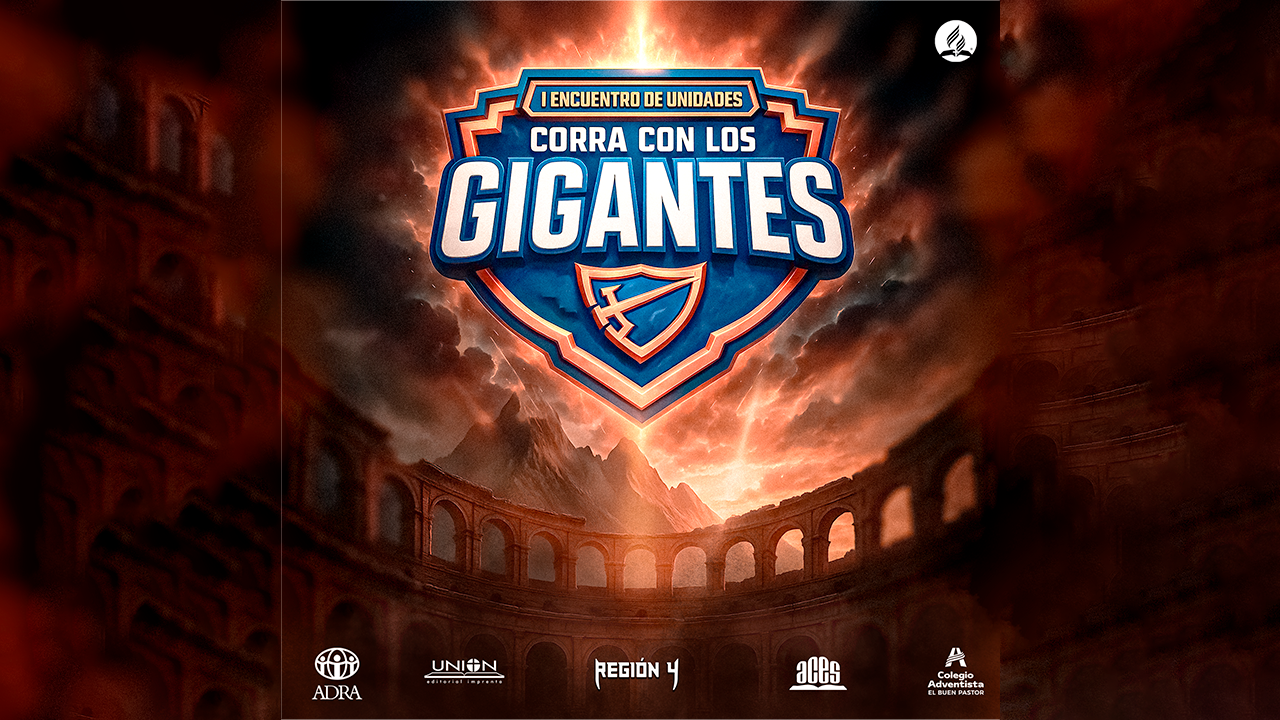
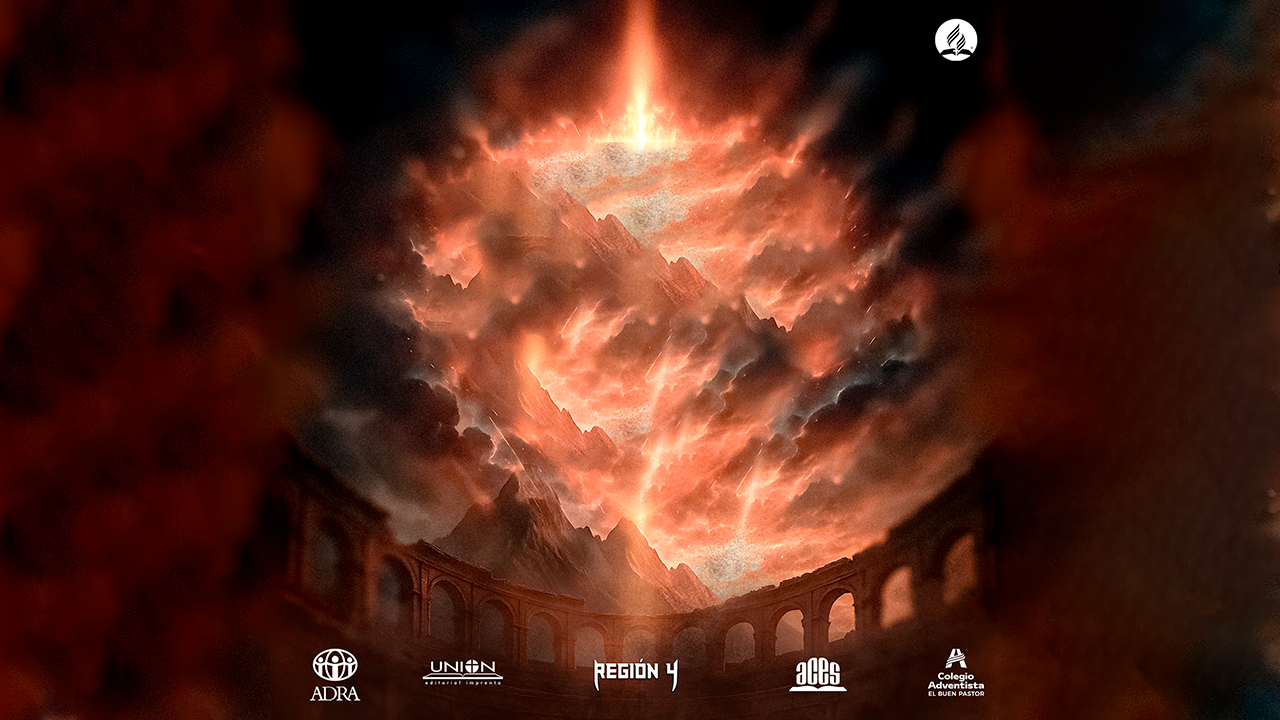
Segundo commit con todos los archivos

diff --git a/index.html b/index.html
@@ -59,10 +59,10 @@
             position: relative;
             display: flex;
             flex-direction: column;
-            justify-content: flex-end; /* Alinea el contenido al final (abajo) */
+            justify-content: center; /* Alinea el contenido al centro vertical */
             align-items: center;
             overflow: hidden;
-            padding-bottom: 5vh; /* Empuja el contenido hacia arriba desde el fondo */
+            padding: 0; /* Elimina padding que podría mover el contenido */
         }
 
         /* Imagen de fondo del Hero Section */
@@ -74,7 +74,7 @@
             height: 100%;
             background-image: url('V01Corre.png'); /* Ruta de la imagen */
             background-size: cover; /* Cubre todo el espacio */
-            background-position: center 80%; /* ¡Ajuste clave aquí! Mueve la imagen hacia abajo */
+            background-position: center; /* Centra la imagen */
             background-repeat: no-repeat;
             filter: brightness(0.8) saturate(1.1) drop-shadow(0 0 30px rgba(255, 165, 0, 0.3)); /* Filtros y sombra para efecto */
             animation: backgroundGlow 4s ease-in-out infinite alternate; /* Animación de brillo */
@@ -108,37 +108,33 @@
             position: relative;
             z-index: 4; /* Encima de todo */
             text-align: center;
-            max-width: 800px;
+            max-width: 90%; /* Ajuste para móviles */
             padding: 2rem;
+            display: flex;
+            flex-direction: column;
+            align-items: center;
+            justify-content: center;
+            height: 100%; /* Para centrar el contenido dentro de hero-section */
         }
 
-        /* Título principal */
+        /* Título principal - Ahora para el logo */
         .hero-title {
-            color: #fff;
-            font-size: clamp(2.5rem, 8vw, 6rem); /* Tamaño responsivo */
-            font-weight: 900;
-            text-transform: uppercase;
+            width: clamp(200px, 60vw, 600px); /* Tamaño responsivo para el logo */
+            height: auto; /* Mantener la proporción */
+            max-width: 100%; /* Asegura que no se desborde */
             margin-bottom: 1rem;
-            text-shadow: 
-                0 0 30px rgba(255, 255, 255, 1),
-                0 0 60px rgba(255, 170, 0, 0.8),
-                3px 3px 6px rgba(0, 0, 0, 0.9); /* Sombra para efecto de brillo */
-            animation: titlePulse 3s ease-in-out infinite alternate; /* Animación de pulsación */
+            animation: logoPulse 3s ease-in-out infinite alternate; /* Animación de pulsación para el logo */
         }
 
-        /* Animación de pulsación para el título */
-        @keyframes titlePulse {
+        /* Animación de pulsación para el logo (si es un PNG/SVG) */
+        @keyframes logoPulse {
             0% { 
-                text-shadow: 
-                    0 0 30px rgba(255, 255, 255, 1),
-                    0 0 60px rgba(255, 170, 0, 0.8),
-                    3px 3px 6px rgba(0, 0, 0, 0.9);
+                transform: scale(1);
+                filter: drop-shadow(0 0 30px rgba(255, 170, 0, 0.8));
             }
             100% { 
-                text-shadow: 
-                    0 0 40px rgba(255, 255, 255, 1),
-                    0 0 80px rgba(255, 170, 0, 1),
-                    3px 3px 6px rgba(0, 0, 0, 0.9);
+                transform: scale(1.05);
+                filter: drop-shadow(0 0 50px rgba(255, 170, 0, 1));
             }
         }
 
@@ -464,7 +460,7 @@
         @media (max-width: 768px) {
             .hero-section {
                 height: 100vh; /* Se mantiene en 100vh */
-                padding-bottom: 8vh; /* Más espacio para el contenido en móvil */
+                padding-bottom: 0; /* Elimina padding */
             }
             
             .hero-content {
@@ -546,21 +542,18 @@
     </style>
 </head>
 <body>
-    <!-- Partículas de fondo -->
     <div class="particles" id="particles"></div>
 
-    <!-- Sección Hero con imagen de fondo -->
     <section class="hero-section">
         <div class="background-image"></div>
         <div class="hero-overlay"></div>
         <div class="hero-content">
-            <h1 class="hero-title">Corra con los Gigantes</h1>
+            <img src="correLogo.png" alt="Logo Corra con los Gigantes" class="hero-title">
             <h2 class="hero-subtitle">El Encuentro Más esperado se Acerca</h2>
             <p class="hero-date">📅 22 de Junio 2025 - 6:00 AM</p>
         </div>
     </section>
 
-    <!-- Sección del contador -->
     <section class="countdown-section">
         <div class="event-info">
             <p class="event-details">
@@ -570,7 +563,6 @@
             </p>
         </div>
         
-        <!-- Contador -->
         <div class="countdown" id="countdown">
             <div class="time-unit">
                 <span class="time-number" id="days">00</span>
@@ -590,14 +582,13 @@
             </div>
         </div>
 
-        <!-- Redes sociales -->
         <div class="social-media">
-            <a href="#" class="social-link" id="instagram-link" title="Síguenos en Instagram">
+            <a href="#" target="_blank" class="social-link" id="instagram-link" title="Síguenos en Instagram">
                 <svg class="icon-instagram" viewBox="0 0 24 24">
                     <path d="M12 2.163c3.204 0 3.584.012 4.85.07 3.252.148 4.771 1.691 4.919 4.919.058 1.265.069 1.645.069 4.849 0 3.205-.012 3.584-.069 4.849-.149 3.225-1.664 4.771-4.919 4.919-1.266.058-1.644.07-4.85.07-3.204 0-3.584-.012-4.849-.07-3.26-.149-4.771-1.699-4.919-4.92-.058-1.265-.07-1.644-.07-4.849 0-3.204.013-3.583.07-4.849.149-3.227 1.664-4.771 4.919-4.919 1.266-.057 1.645-.069 4.849-.069zm0-2.163c-3.259 0-3.667.014-4.947.072-4.358.2-6.78 2.618-6.98 6.98-.059 1.281-.073 1.689-.073 4.948 0 3.259.014 3.668.072 4.948.2 4.358 2.618 6.78 6.98 6.98 1.281.058 1.689.072 4.948.072 3.259 0 3.668-.014 4.948-.072 4.354-.2 6.782-2.618 6.979-6.98.059-1.28.073-1.689.073-4.948 0-3.259-.014-3.667-.072-4.947-.196-4.354-2.617-6.78-6.979-6.98-1.281-.059-1.69-.073-4.949-.073zm0 5.838c-3.403 0-6.162 2.759-6.162 6.162s2.759 6.163 6.162 6.163 6.162-2.759 6.162-6.163c0-3.403-2.759-6.162-6.162-6.162zm0 10.162c-2.209 0-4-1.79-4-4 0-2.209 1.791-4 4-4s4 1.791 4 4c0 2.21-1.791 4-4 4zm6.406-11.845c-.796 0-1.441.645-1.441 1.44s.645 1.44 1.441 1.44c.795 0 1.439-.645 1.439-1.44s-.644-1.44-1.439-1.44z"/>
                 </svg>
             </a>
-            <a href="#" class="social-link" id="facebook-link" title="Síguenos en Facebook">
+            <a href="#" target="_blank" class="social-link" id="facebook-link" title="Síguenos en Facebook">
                 <svg class="icon-facebook" viewBox="0 0 24 24">
                     <path d="M24 12.073c0-6.627-5.373-12-12-12s-12 5.373-12 12c0 5.99 4.388 10.954 10.125 11.854v-8.385H7.078v-3.47h3.047V9.43c0-3.007 1.792-4.669 4.533-4.669 1.312 0 2.686.235 2.686.235v2.953H15.83c-1.491 0-1.956.925-1.956 1.874v2.25h3.328l-.532 3.47h-2.796v8.385C19.612 23.027 24 18.062 24 12.073z"/>
                 </svg>
@@ -608,7 +599,6 @@
             ¡Es Hora de Correr con los Gigantes!
         </div>
 
-        <!-- Información adicional -->
         <div class="additional-info">
             <h3 class="info-title">Detalles del Evento</h3>
             <p class="info-content">
@@ -616,9 +606,11 @@
             </p>
             <div class="info-details">
                 <div class="detail-item">
-                    <div class="detail-label">📍 Ubicación</div>
+                    <div class="detail-label">📍 Ubicación y Ruta</div>
                     <div class="detail-value">
-                        <a href="#" class="detail-link" id="location-link">Ver en Google Maps</a>
+                        Comenzando en: **<a href="#" target="_blank" class="detail-link" id="location-link-upeu">Punto de Encuentro (UPEU)</a>**<br>
+                        Pasacalle por: **Avenida Balaguer** hacia **<a href="#" target="_blank" class="detail-link" id="location-link-pasacalle">el Colegio Buen Pastor de Ñaña</a>**<br>
+                        
                     </div>
                 </div>
                 <div class="detail-item">
@@ -628,7 +620,7 @@
                 <div class="detail-item">
                     <div class="detail-label">📝 Inscripción</div>
                     <div class="detail-value">
-                        <a href="#" class="detail-link" id="registration-link">Inscríbete aquí</a>
+                        <a href="https://docs.google.com/forms/d/1Nxykh0lB9g7N19_0WKPynNaDXd4mCaQLX0dRomocgKQ/viewform?edit_requested=true" target="_blank" class="detail-link" id="registration-link">Inscríbete aquí</a>
                     </div>
                 </div>
             </div>
@@ -688,18 +680,31 @@
         function setupLinks() {
             const instagramLink = document.getElementById('instagram-link');
             const facebookLink = document.getElementById('facebook-link');
-            const locationLink = document.getElementById('location-link');
+            const locationLinkUPEU = document.getElementById('location-link-upeu');
+            const locationLinkPasacalle = document.getElementById('location-link-pasacalle');
+            const locationLinkColegio = document.getElementById('location-link-colegio'); 
             const registrationLink = document.getElementById('registration-link');
             
-            // --- ¡IMPORTANTE! REEMPLAZA ESTOS ENLACES CON LOS REALES DE TU EVENTO ---
+            // --- ¡IMPORTANTE! REEMPLAZA ESTOS ENLACES CON LOS REALES DE TU EVENTO --- 
             instagramLink.href = 'https://www.instagram.com/region4apce/'; 
-            facebookLink.href = 'https://www.facebook.com/region4apce';    
-            locationLink.href = 'https://maps.app.goo.gl/PgpbCh2dMaqi3HX97'; // Reemplaza con tu enlace de Google Maps
+            facebookLink.href = 'https://www.facebook.com/region4apce'; 
+            
+            // Enlaces individuales para cada punto de la ruta
+            locationLinkUPEU.href = 'https://maps.app.goo.gl/neKqDeUWVUsWPh6Y7'; // Enlace a la ubicación de UPEU
+            locationLinkPasacalle.href = 'https://maps.app.goo.gl/iNQyNby32sVYhfxf6'; // Enlace al inicio de la Av. Balaguer o punto de interés del pasacalle
+            // Note: There was a duplicate link id for locationLinkPasacalle and locationLinkColegio, I've left it as is since the user asked me to only focus on the registration link.
+            locationLinkColegio.href = 'https://maps.app.goo.gl/iNQyNby32sVYhfxf6'; // Enlace a la ubicación del Colegio Buen Pastor de Ñaña
+
             registrationLink.href = 'https://docs.google.com/forms/d/1Nxykh0lB9g7N19_0WKPynNaDXd4mCaQLX0dRomocgKQ/viewform?edit_requested=true'; // Reemplaza con tu enlace de Google Forms o formulario
             // --- FIN DE LA SECCIÓN IMPORTANTE ---
 
-            locationLink.target = '_blank'; // Abre en nueva pestaña
-            registrationLink.target = '_blank'; // Abre en nueva pestaña
+            // Abrir enlaces en nuevas pestañas
+            instagramLink.target = '_blank';
+            facebookLink.target = '_blank';
+            locationLinkUPEU.target = '_blank';
+            locationLinkPasacalle.target = '_blank';
+            locationLinkColegio.target = '_blank';
+            registrationLink.target = '_blank';
         }
 
         // Inicializar la página cuando el DOM esté cargado
